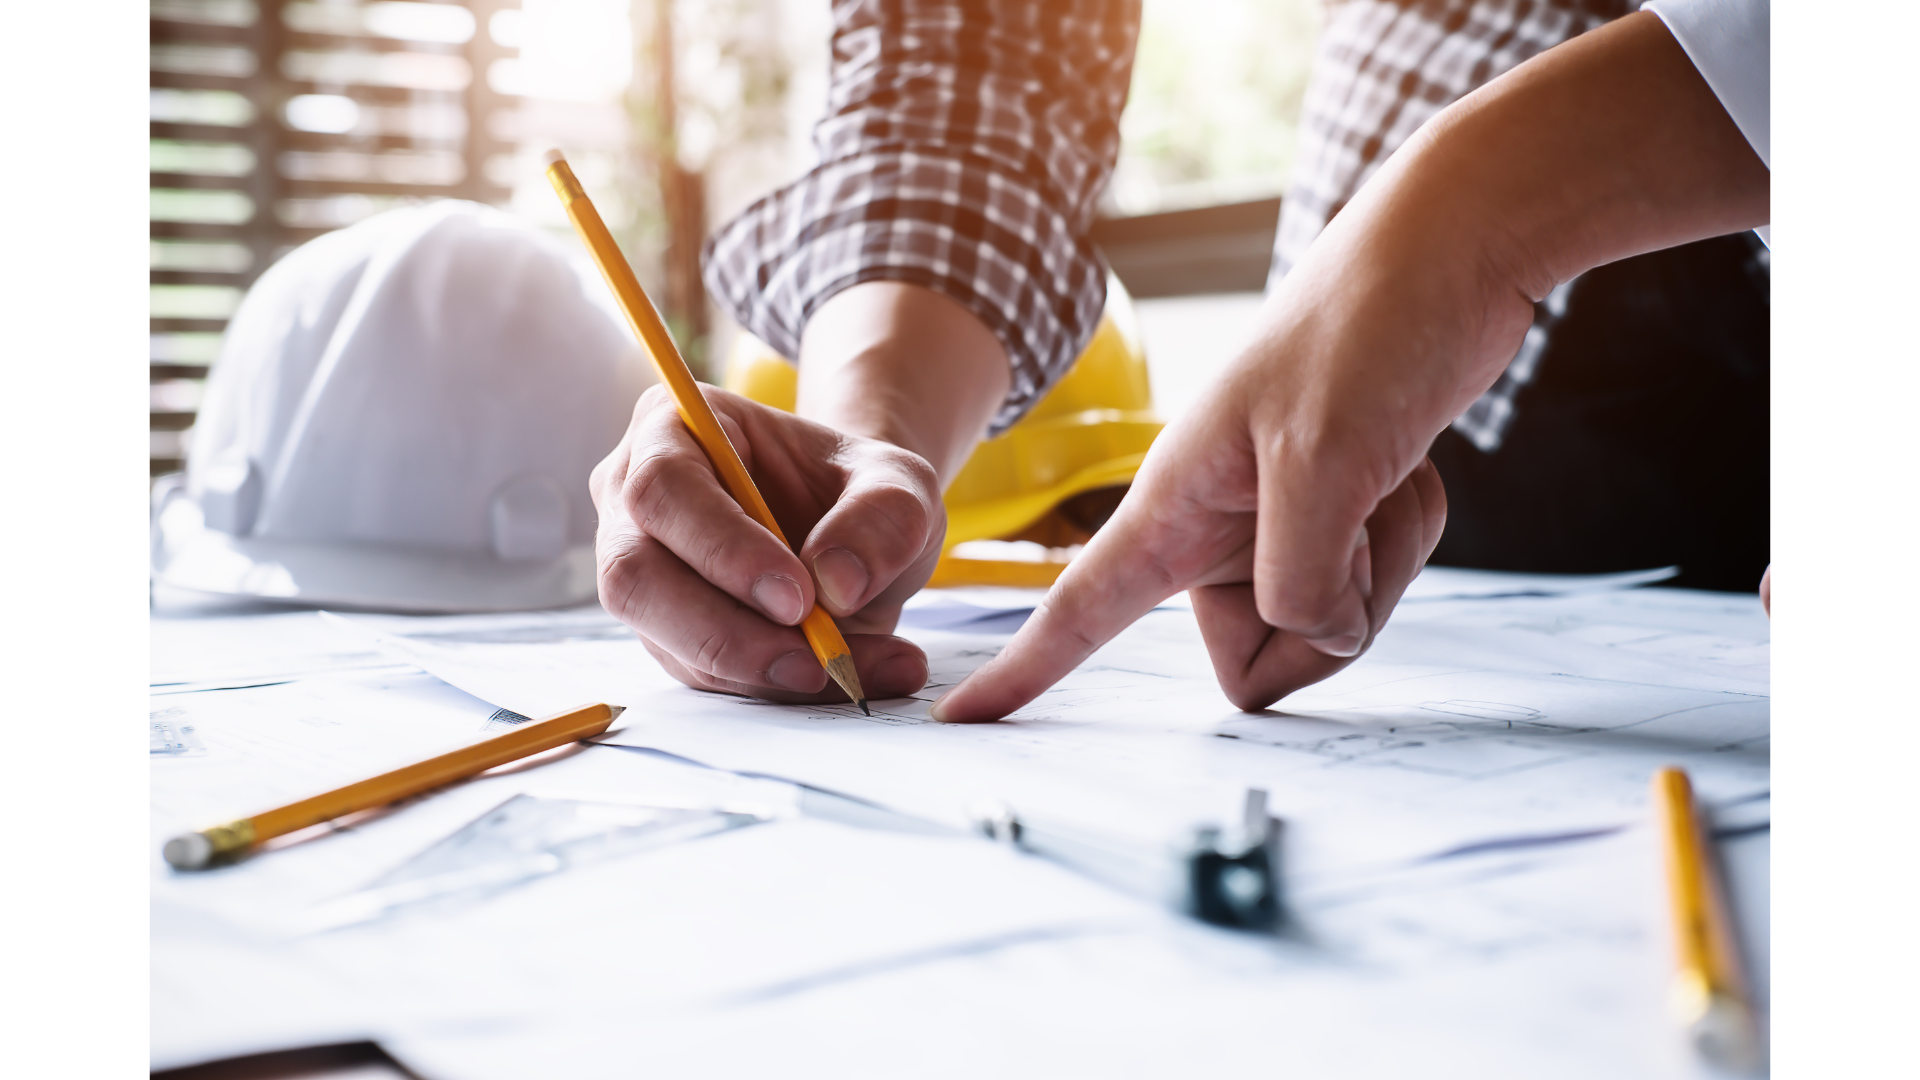
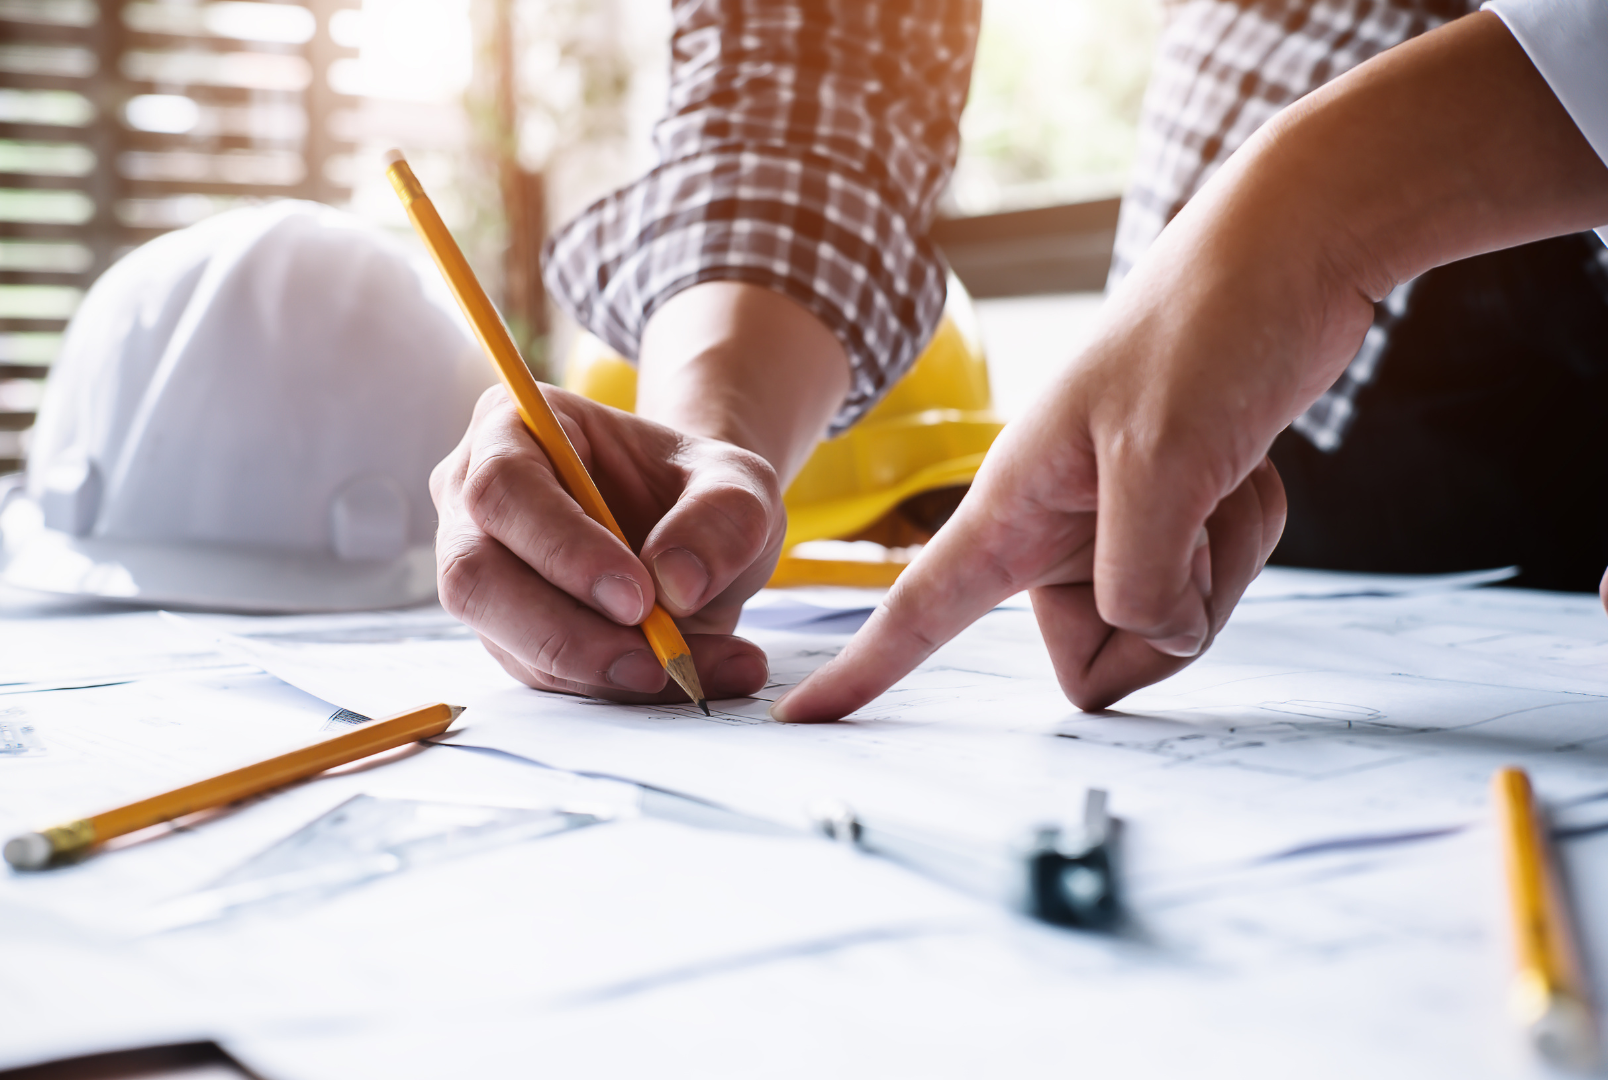
Updated home page

diff --git a/najd-elmqawlat/index.php b/najd-elmqawlat/index.php
@@ -98,7 +98,7 @@
         <div class="container mx-auto">
             <div class="flex flex-col md:flex-row items-center">
                 <div class="md:w-1/2 mb-10 md:mb-0">
-                    <img src="/api/placeholder/600/400" alt="عن نجد القمم" class="rounded-lg shadow-lg">
+                    <img src="static/3.png" alt="عن نجد القمم" class="rounded-lg shadow-lg">
                 </div>
                 <div class="md:w-1/2 md:pr-12">
                     <h2 class="text-3xl font-bold mb-6 text-gray-800">عن مؤسسة نجد القمم للمقاولات</h2>

diff --git a/ejaz/config/db.php b/ejaz/config/db.php
@@ -1,5 +1,5 @@
 <?php
-$host = 'localhost';
+$host = '127.0.0.1';
 $db   = 'najidalqimam_ejaz';
 $user = 'najidalqimam_ejaz';
 $pass = 'u(&3+Nj&lg{S';
